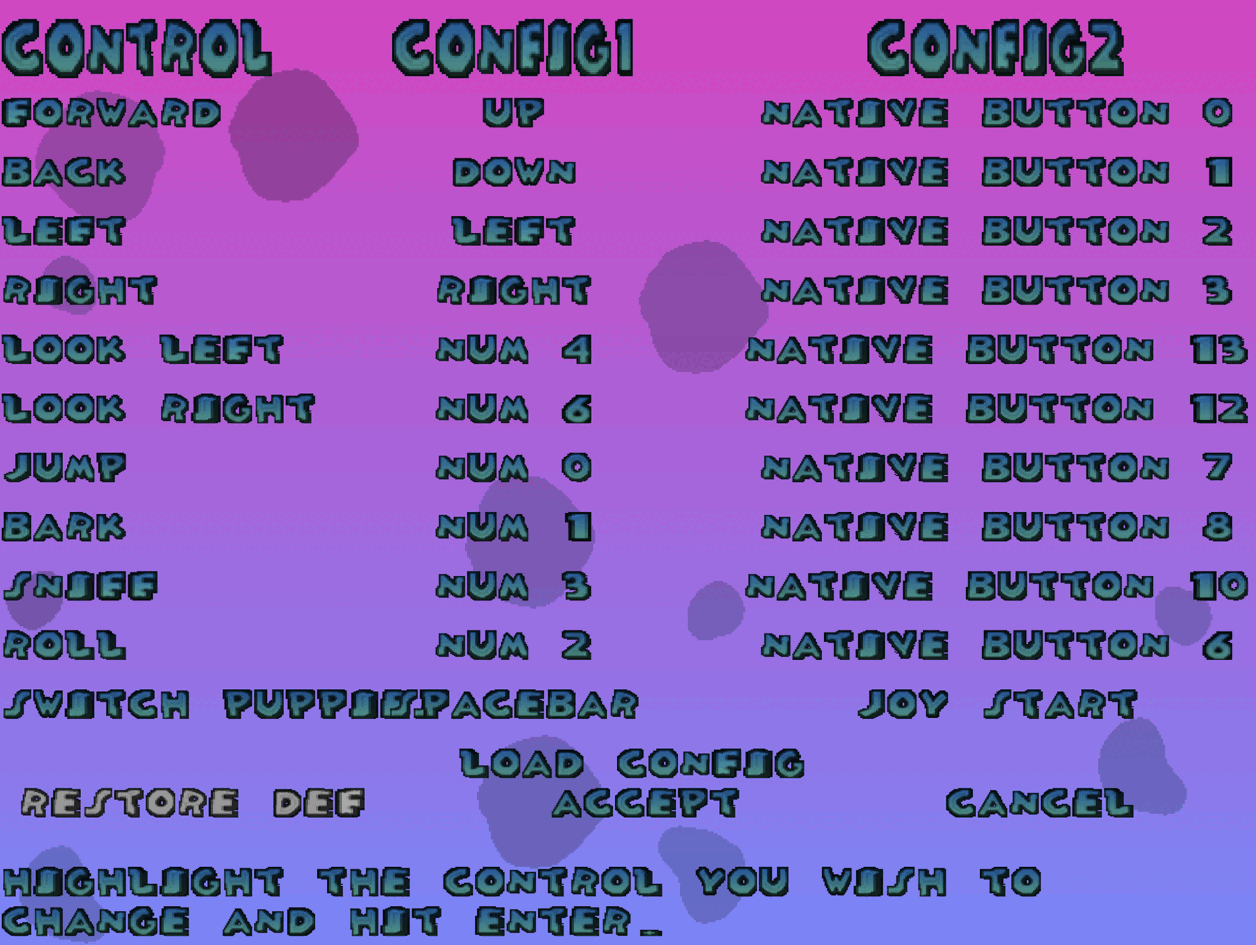
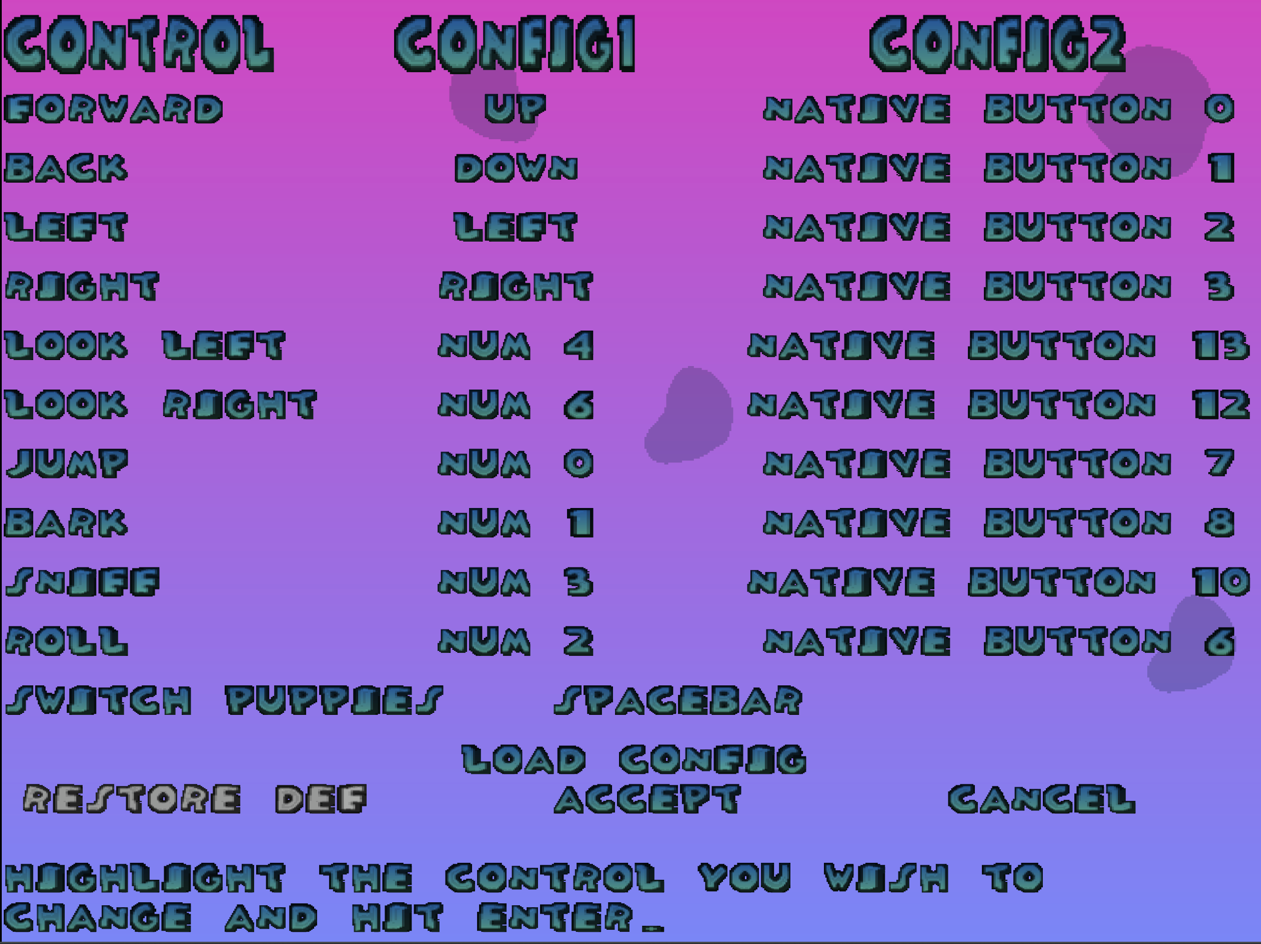
nice

Changed region(s): [[0.0, 0.0, 1.0, 1.0]]

diff --git a/modules/sidecar/tests/src/key_state.c b/modules/sidecar/tests/src/key_state.c
@@ -279,36 +279,6 @@ static void key_code_names_use_game_labels(void **) {
 	);
 }
 
-static void switch_puppies_controller_binding_uses_special_mask(void **) {
-	register_original_calls = 0;
-	register_original_code = 0;
-	register_original_mask = 0;
-	dttr_inputs_hook_register_button_mapping_original = register_button_mapping_original_stub;
-	dttr_inputs_custom_button_mappings_clear();
-
-	const int32_t sdl_button = gamepad_button_code(SDL_GAMEPAD_BUTTON_WEST);
-	dttr_inputs_register_switch_puppies_controller_binding(sdl_button);
-	assert_int_equal(
-		dttr_inputs_custom_button_mapping_mask(SDL_GAMEPAD_BUTTON_WEST),
-		0x4000
-	);
-	assert_int_equal(register_original_calls, 0);
-
-	const int32_t native_button = DTTR_INPUTS_GAMEPAD_BUTTON_BASE + 2;
-	dttr_inputs_register_switch_puppies_controller_binding(native_button);
-	assert_int_equal(register_original_calls, 1);
-	assert_int_equal(register_original_code, native_button);
-	assert_int_equal(register_original_mask, 0x4000);
-
-	const int32_t keyboard_code = key_code(SDL_SCANCODE_A);
-	dttr_inputs_register_switch_puppies_controller_binding(keyboard_code);
-	assert_int_equal(register_original_calls, 2);
-	assert_int_equal(register_original_code, keyboard_code);
-	assert_int_equal(register_original_mask, 0x4000);
-
-	dttr_inputs_hook_mapping_reset();
-}
-
 static void custom_sdl_button_mappings_apply_direct_masks(void **) {
 	register_original_calls = 0;
 	register_original_code = 0;
@@ -397,8 +367,6 @@ static const DTTR_TestCase TEST_CASES[] = {
 	 controls_menu_waits_for_held_keys_to_release},
 	{"controls-menu-special-keys", controls_menu_special_keys},
 	{"key-code-names-use-game-labels", key_code_names_use_game_labels},
-	{"switch-puppies-controller-binding-uses-special-mask",
-	 switch_puppies_controller_binding_uses_special_mask},
 	{"custom-sdl-button-mappings-apply-direct-masks",
 	 custom_sdl_button_mappings_apply_direct_masks},
 	{"setting-rumble-suppression-stops-active-sdl-rumble",

diff --git a/modules/sidecar/src/inputs/hook_control_bindings.c b/modules/sidecar/src/inputs/hook_control_bindings.c
@@ -13,11 +13,6 @@ DTTR_PCDOGS_F_Input_ReadDevices_proto dttr_inputs_hook_read_devices_original;
 
 static uint32_t custom_sdl_button_masks[DTTR_INPUTS_SDL_BUTTON_COUNT];
 
-enum {
-	DTTR_INPUTS_SWITCH_PUPPIES_INI_INDEX = 10,
-	DTTR_INPUTS_SWITCH_PUPPIES_BUTTON_MASK = 0x4000,
-};
-
 bool dttr_inputs_hook_mapping_prepare(const DTTR_Mods_Context *ctx) {
 	return ctx && DTTR_PCDOGS_F_Input_RegisterButtonMapping->IsCallable(&ctx->runtime)
 		   && DTTR_PCDOGS_F_Config_ApplySettings->IsCallable(&ctx->runtime);
@@ -88,34 +83,6 @@ int32_t __cdecl dttr_inputs_hook_register_button_mapping_callback(
 			   : 0;
 }
 
-void dttr_inputs_register_switch_puppies_controller_binding(int32_t control_code) {
-	const DTTR_Input_KeyCodeKind kind = dttr_inputs_key_code_kind(control_code);
-	if (kind == DTTR_INPUTS_KEY_CODE_NONE) {
-		return;
-	}
-
-	dttr_inputs_hook_register_button_mapping_callback(
-		control_code,
-		DTTR_INPUTS_SWITCH_PUPPIES_BUTTON_MASK
-	);
-}
-
-static void register_switch_puppies_controller_override() {
-	if (!DTTR_PCDOGS_D_Config_ApplySettings_InputPlayer2Controls->IsResolved()) {
-		return;
-	}
-
-	const int32_t *
-		player2_controls = DTTR_PCDOGS_D_Config_ApplySettings_InputPlayer2Controls->Ptr();
-	if (!player2_controls) {
-		return;
-	}
-
-	dttr_inputs_register_switch_puppies_controller_binding(
-		player2_controls[DTTR_INPUTS_SWITCH_PUPPIES_INI_INDEX]
-	);
-}
-
 static void register_start_pause_override() {
 	const int action = DTTR_Config_ControlActionIndex("start_pause");
 	if (action < 0) {
@@ -140,7 +107,6 @@ void __cdecl dttr_inputs_hook_config_apply_settings_callback() {
 		dttr_inputs_hook_config_apply_settings_original();
 	}
 
-	register_switch_puppies_controller_override();
 	register_start_pause_override();
 }
 

diff --git a/modules/sidecar/include/sidecar_hook_sigs.h b/modules/sidecar/include/sidecar_hook_sigs.h
@@ -30,10 +30,6 @@
 	"3B C7 75 10 81 FE 00 01 00 00 7D 15 89 3D ?? ?? ?? ?? EB 3A 83 F8 01 75 F3 81 "     \
 	"FE 00 01 00 00 7D EB"
 
-// Keep the native in-game controls menu's gamepad column guards intact.
-// Sidecar SDL button codes are intercepted in Input_RegisterButtonMapping instead:
-// native direct-gamepad registration for code 0x400 aliases the pcdogs.ini gamma byte.
-
 // PCDOGS save-path resolver hooked to redirect persisted data (EU/SC builds only).
 #define DTTR_SIDECAR_AOB_RESOLVE_PCDOGS_PATH "51 8D 44 24 ?? 57"
 

diff --git a/modules/sidecar/src/inputs/hooks_private.h b/modules/sidecar/src/inputs/hooks_private.h
@@ -107,7 +107,6 @@ void dttr_inputs_hook_mapping_reset();
 void dttr_inputs_custom_button_mappings_clear();
 uint32_t dttr_inputs_custom_button_mapping_mask(int button);
 void dttr_inputs_apply_custom_button_mappings(DTTR_PCDOGS_T_Input_State *state);
-void dttr_inputs_register_switch_puppies_controller_binding(int32_t control_code);
 int32_t __cdecl dttr_inputs_hook_register_button_mapping_callback(
 	int32_t control_code,
 	uint32_t button_mask

diff --git a/docs/pages/technical-reference/01-patches.md b/docs/pages/technical-reference/01-patches.md
@@ -83,23 +83,16 @@ rows, and sidecar-local byte patches expanded from `sidecar_inputs_byte_patches.
 
 ### Controls Menu Byte Patches
 
-These byte patches let the controls menu bind DttR scancodes and expose Switch Puppies in both control columns. Switch Puppies stays as byte patches because it only changes small compare/jump/copy constants.
+These byte patches support DttR's controls-menu remap flow where keyboard keys or
+controller buttons can be bound to either input column. The byte patches keep
+keyboard scancode values valid in the menu; the controls-menu hooks capture and
+name both keyboard and controller inputs.
 
 | Site | Signature | Bytes | Effect |
 | --- | --- | --- | --- |
 | `dttr_inputs_controls_enter_bind_branch` | Signature `E8 ?? ?? ?? ?? 8B F0 83 FE FF 0F 84 ?? ?? ?? ?? 83 FE 0D 0F 84 ?? ?? ?? ?? 83 FE 1B`, offset `+19` | `90 90 90 90 90 90` (`nop` x6) | Removes the native Enter-as-finish branch so Return can be bound like other keys. |
 | `dttr_inputs_controls_keyboard_bind_limit` | Signature `3B C7 75 17 81 FE 00 01 00 00 7D 29 8B ?? ?? ?? ?? ?? 89 34`, offset `+4` | `81 FE E8 03 00 00` (`cmp esi, 0x3E8`) | Raises the keyboard binding limit so DttR scancode key codes fit below the gamepad range. |
 | `dttr_inputs_controls_keyboard_remap_done_limit` | Signature `3B C7 75 10 81 FE 00 01 00 00 7D 15 89 3D ?? ?? ?? ?? EB 3A 83 F8 01 75 F3 81 FE 00 01 00 00 7D EB`, offset `+4` | `81 FE E8 03 00 00` (`cmp esi, 0x3E8`) | Applies the raised keyboard limit to the remap-completion path. |
-| `dttr_inputs_controls_switch_puppies_down_column` | Signature `83 F8 0A 75 08 89 3D ?? ?? ?? ?? EB 12 83 F8 0B`, offset `+0` | `83 F8 0D` (`cmp eax, 0x0D`) | Lets the Switch Puppies row move through the controller column on Down. |
-| `dttr_inputs_controls_switch_puppies_up_column` | Signature `83 F8 0A 75 0A 33 C9 89 0D ?? ?? ?? ?? EB 06 8B 0D`, offset `+0` | `83 F8 0D` (`cmp eax, 0x0D`) | Lets the Switch Puppies row move through the controller column on Up. |
-| `dttr_inputs_controls_switch_puppies_up_wrap_column` | Signature `B8 0A 00 00 00 33 C9 A3 ?? ?? ?? ?? 89 0D ?? ?? ?? ?? EB 15 83 F8 0A`, offset `+12` | `90 90 90 90 90 90 EB 0F` (`nop` x6, shorter jump) | Preserves the active column when Up wraps from the first controls row to Switch Puppies. |
-| `dttr_inputs_controls_switch_puppies_left_column` | Signature `83 F8 0A 75 08 33 C9 89 0D ?? ?? ?? ??`, offset `+0` | `83 F8 0D` (`cmp eax, 0x0D`) | Lets the Switch Puppies row move from controller to keyboard column. |
-| `dttr_inputs_controls_switch_puppies_right_column` | Signature `83 F8 0A C6 05 ?? ?? ?? ?? 00 89 0D ?? ?? ?? ?? 74`, offset `+0` | `83 F8 0D` (`cmp eax, 0x0D`) | Lets the Switch Puppies row move from keyboard to controller column. |
-| `dttr_inputs_controls_switch_puppies_conflict_inner_count` | Signature `83 F8 0A 7C E7 42 83 C7 04 83 FA 0A 7C D6`, offset `+0` | `83 F8 0B` (`cmp eax, 0x0B`) | Includes the Switch Puppies controller row in duplicate-binding checks. |
-| `dttr_inputs_controls_switch_puppies_conflict_outer_count` | Same signature, offset `+9` | `83 FA 0B` (`cmp edx, 0x0B`) | Applies the same duplicate-binding row count to the outer loop. |
-| `dttr_inputs_controls_switch_puppies_copy_gamepad_count` | Signature `B9 0A 00 00 00 BE ?? ?? ?? ?? BF ?? ?? ?? ?? 68 ?? ?? ?? ?? 68 ?? ?? ?? ?? 68 ?? ?? ?? ?? F3 A5 E8`, offset `+0` | `B9 0B 00 00 00` (`mov ecx, 0x0B`) | Copies the Switch Puppies controller binding from active settings into the controls-menu edit buffer. |
-| `dttr_inputs_controls_switch_puppies_render_keyboard_column` | Signature `83 FF 0A 8B C6 75 0F 8B 44 24 10 2B C6 99 2B C2 D1 F8 8D 44 30 D8`, offset `+0`; optional English-build patch | `83 FF 0B` (`cmp edi, 0x0B`) | Keeps the Switch Puppies keyboard binding aligned under `Config1` instead of centered between columns. |
-| `dttr_inputs_controls_switch_puppies_render_gamepad_column` | Signature `83 FF 0A 7D 79 8B 14 BD ?? ?? ?? ?? 52 E8`, offset `+0`; optional English-build patch | `83 FF 0B` (`cmp edi, 0x0B`) | Draws the Switch Puppies controller binding under `Config2`. |
 
 ## Audio
 
